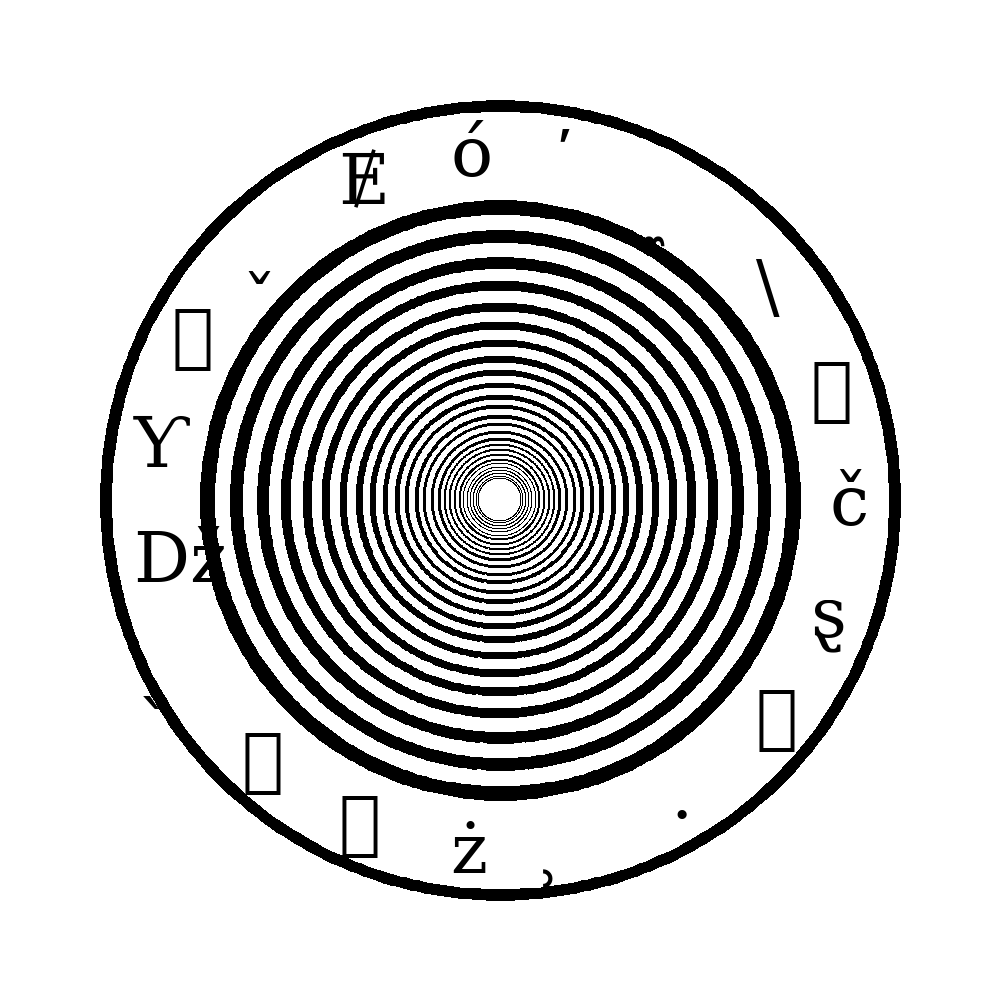
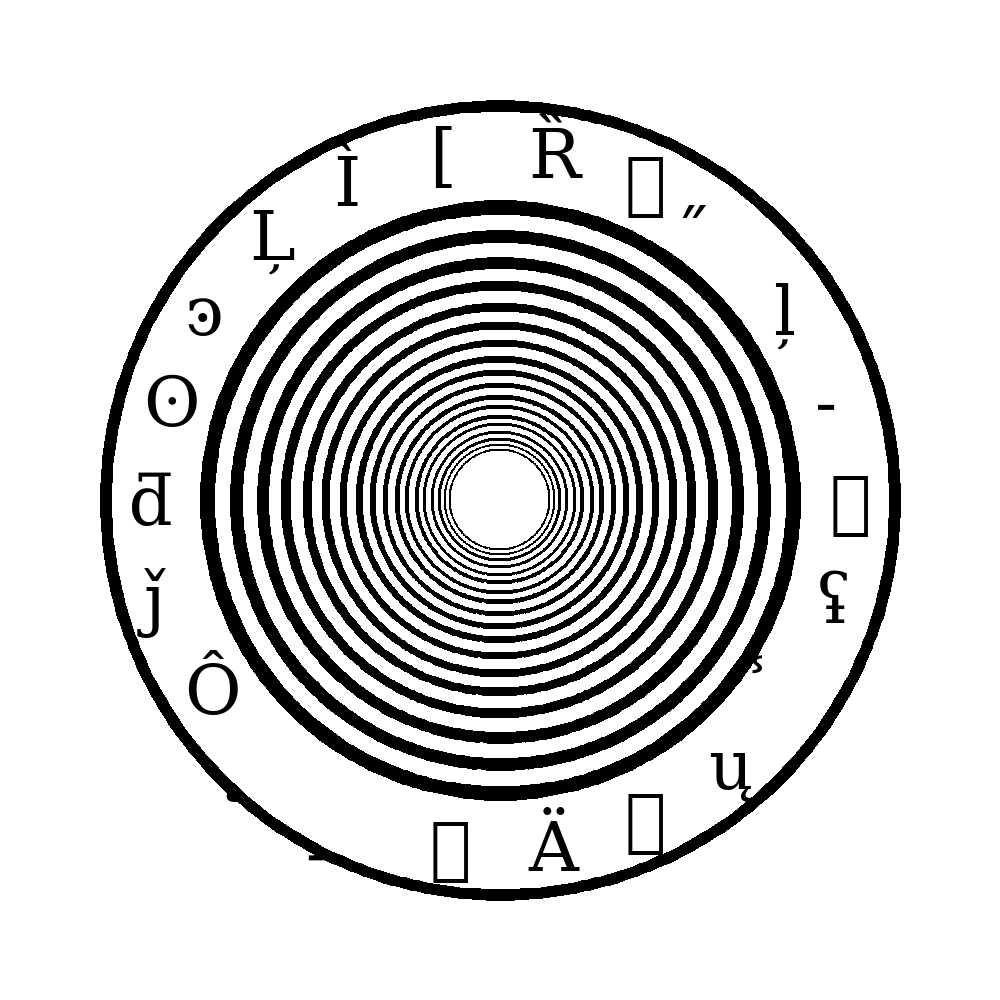
Added more comments and changed rates at which certain inner circles spawn. Added a random offset to the star inner circles.

diff --git a/Generator/MagicCircleGenerator.py b/Generator/MagicCircleGenerator.py
@@ -3,7 +3,6 @@ import argparse
 import math
 from random import randint
 import random
-import string
 
 
 # draw small circles
@@ -51,39 +50,59 @@ def textCircleCenter():
 
 
 def starCenter():
-    points = randint(3, 8)
-    if points % 2 == 0:
-        points += 1
-    oldx = int(imageSize/2) + int(imageSize * 0.3) * math.sin(2 * math.pi)
-    oldy = int(imageSize/2) + int(imageSize * 0.3) * math.cos(2 * math.pi)
+    # sets number of points to generate
+    points = randint(3, 13)
+    # sets random offset for the points to start
+    offset = random.random()
+    # creates starting of first line
+    oldx = int(imageSize/2) + int(imageSize * 0.3) * math.sin(2 * math.pi * offset)
+    oldy = int(imageSize/2) + int(imageSize * 0.3) * math.cos(2 * math.pi * offset)
+    # sets the sequence number at max to start to equal 1 on later calculations with division
     currentSequence = points
+    # creates iterator so it makes staisfying star shapes relative to number of points
+    iterator = math.ceil(points / 2) - 1
 
+    # loops through each point
     for i in range(points):
-        currentSequence = currentSequence + 2
+        # sets which point in the sequence it will do and sets it back down if it goes above the max
+        currentSequence = currentSequence + iterator
         if currentSequence > points:
             currentSequence -= points
-        newx = int(imageSize/2) + int(imageSize * 0.3) * math.sin(2 * math.pi * currentSequence / points)
-        newy = int(imageSize/2) + int(imageSize * 0.3) * math.cos(2 * math.pi * currentSequence / points)
+        # sets the rotation relative to the center for graphing in range 0-1, sets it back down if it goes out of range
+        rotation = currentSequence / points + offset
+        if rotation > 1:
+            rotation -= 1
+        # sets the destination of the line
+        newx = int(imageSize/2) + int(imageSize * 0.3) * math.sin(2 * math.pi * rotation)
+        newy = int(imageSize/2) + int(imageSize * 0.3) * math.cos(2 * math.pi * rotation)
+        # writes the line from starting to end point
         d.line((oldx, oldy, (newx, newy)), fill=(0, 0, 0), width=int(imageSize / 80))
+        # sets the next starting point to the current end of the line
         oldx = newx
         oldy = newy
 
 def concentericCircles():
-    iterator = 0.8
+    # sets a starting radius for the circles
     concentricCircleRadius = imageSize * 0.3
+    # sets up the center of the image for later use
     imageMiddle = imageSize / 2
-    while concentricCircleRadius > imageSize * 0.001:
-
+    # loops until the radius of the circles gets too small to bother
+    while concentricCircleRadius > imageSize * 0.01:
+        # draws a circle starting from the middle outward the radius amount
         d.ellipse(((imageMiddle - concentricCircleRadius, imageMiddle - concentricCircleRadius), (imageMiddle + concentricCircleRadius, imageMiddle + concentricCircleRadius))\
                   , fill=None, outline = (0 ,0 ,0), width=int(concentricCircleRadius * 0.05))
+        # makes the radius smaller for the next circle
         concentricCircleRadius *= 0.9
 
 def generateText(minLetter, maxLetter):
+    # sets chracater variable and a unicode range to pull from
     get_char = chr
     unicode_range = (0x0021, 0x038C)
+    # creates a list of chars to pull from based on all the chars in the unicode range
     alphabet = [
         get_char(char_point) for char_point in range(unicode_range[0], unicode_range[1])
     ]
+    # returns a string with random choices from the alphabet list
     return''.join([random.choice(alphabet) for n in range(randint(minLetter, maxLetter))])
 
 
@@ -94,9 +113,9 @@ def getArgs():
     parser.add_argument('background', type=int, nargs=argparse.REMAINDER, default=(255, 255, 255, 255), help='background color of the circle in RGBA')
     return parser.parse_args()
 
+
 # gets command line args
 args = getArgs()
-
 # sets transparency to full if it wasn't specified
 if len(args.background) == 3:
     args.background.append(255)
@@ -113,7 +132,7 @@ im = Image.new("RGBA", (imageSize, imageSize), (args.background[0], args.backgro
 # sets up drawing
 d = ImageDraw.Draw(im, "RGBA")
 
-# draws outer and inner circle based on image size
+# draws outer circles based on image size
 d.ellipse(((imageSize * 0.10, imageSize * 0.10), (imageSize * 0.90, imageSize * 0.90)), fill=None, outline=(0, 0, 0), width=int(imageSize / 80))
 d.ellipse(((imageSize * 0.2, imageSize * 0.2), (imageSize * 0.8, imageSize * 0.8)), fill=None, outline=(0, 0, 0), width=int(imageSize / 80))
 
@@ -135,9 +154,12 @@ switcher = {
     1:circleCenter,
     2:textCircleCenter,
     3:starCenter,
-    4:concentericCircles
+    4:concentericCircles,
+    5:starCenter,
+    6:textCircleCenter,
 }
-innerStyleFunction = switcher.get(randint(1, 4))
+# gets and runs the function for the corresponding inner circle
+innerStyleFunction = switcher.get(randint(1, 6))
 innerStyleFunction()
 
 # saves the image
